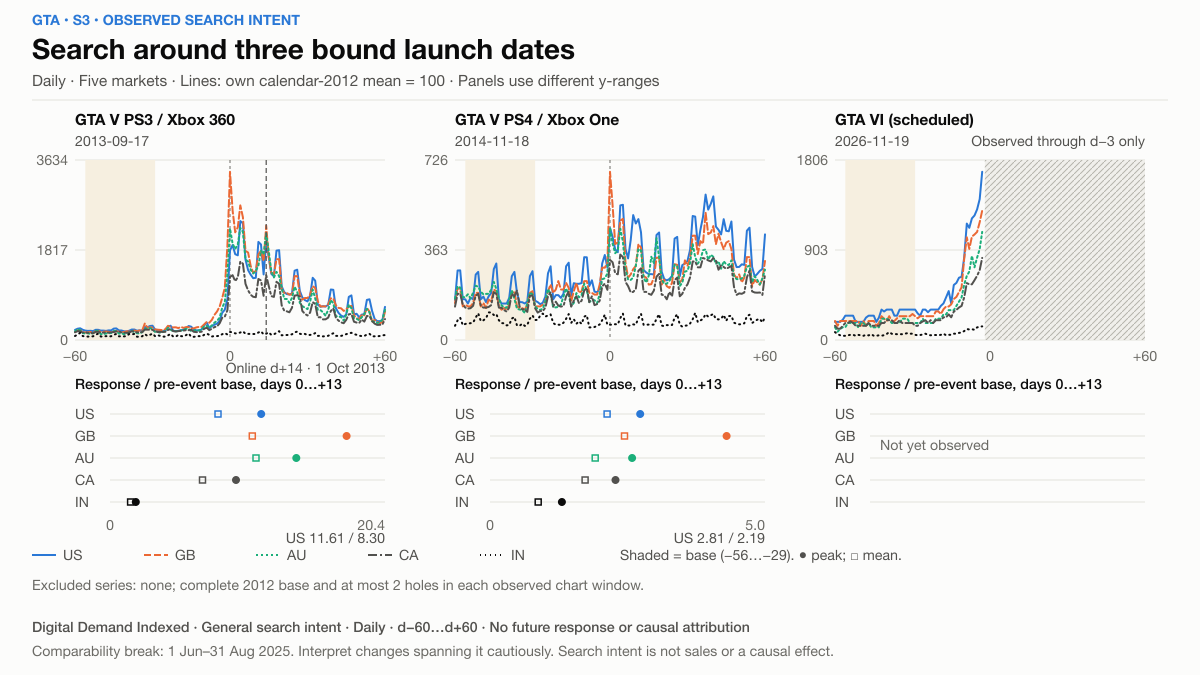
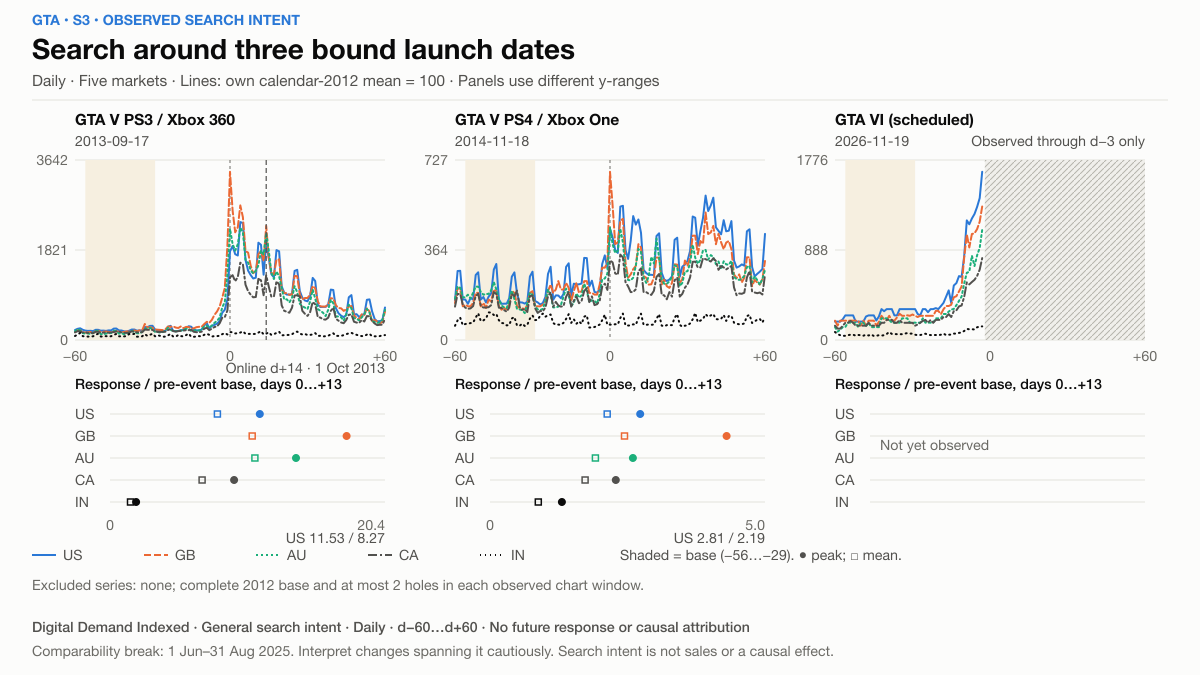
P1: text figures and S3 on 20 Nov export (11.5, 9.6, US 11.53 / 8.27) + data note

diff --git a/content/posts/the-city-that-kept-coming-back/index.md b/content/posts/the-city-that-kept-coming-back/index.md
@@ -38,7 +38,7 @@ Search remembers these games too, but only from 2010. In the US, interest in *Vi
 
 *Grand Theft Auto V* kept Euphoria and launched on PlayStation 3 and Xbox 360 on 17 September 2013. This is where search can finally speak.
 
-**Chart S3** shows daily search around three dated launches. For the 2013 launch, the highest day in the first two weeks reached 11.6 times the pre-launch base in the US, 18.2 in Britain, 14.3 in Australia and 9.7 in Canada; India moved far less, at 2.0. When the same game was re-released on PlayStation 4 and Xbox One on 18 November 2014, the jump was much smaller: 2.8 in the US, 4.4 in Britain. A new platform release is not a new game.
+**Chart S3** shows daily search around three dated launches. For the 2013 launch, the highest day in the first two weeks reached 11.5 times the pre-launch base in the US, 18.2 in Britain, 14.3 in Australia and 9.6 in Canada; India moved far less, at 2.0. When the same game was re-released on PlayStation 4 and Xbox One on 18 November 2014, the jump was much smaller: 2.8 in the US, 4.4 in Britain. A new platform release is not a new game.
 
 ![Chart S3 — Daily GTA search around launch anchors](S3.png)
 
@@ -86,7 +86,9 @@ What happens after launch day is not yet observed. That is the next post.
 
 ---
 
-**How to read the charts.** Each line is its own index: 100 is that series' own average in 2012, one fixed base for all years. Panels have different scales, so compare shapes, not heights. In S3 the dots are the peak (●) and mean (□) of the first two weeks after launch, divided by the base; "US 11.61 / 8.30" means peak 11.61, mean 8.30. S4 uses a log colour scale; the darkest colour covers the top 5% of days. S5's checkpoints are not evenly spaced in time. Search intent is not sales, players or cause.
+**How to read the charts.** Each line is its own index: 100 is that series' own average in 2012, one fixed base for all years. Panels have different scales, so compare shapes, not heights. In S3 the dots are the peak (●) and mean (□) of the first two weeks after launch, divided by the base; "US 11.53 / 8.27" means peak 11.53, mean 8.27. S4 uses a log colour scale; the darkest colour covers the top 5% of days. S5's checkpoints are not evenly spaced in time. Search intent is not sales, players or cause.
+
+Text figures and chart S3 use the 20 Nov 2026 export; charts S1, S2, S4 and S5 use the 19 Nov 2026 export. At the printed precision, the two exports differ only in these three figures.
 
 **Footnote (break).** Between June and August 2025 the source shows a level shift; comparisons across that period, including all 2026-vs-2025 ratios above, should be read with caution.
 
